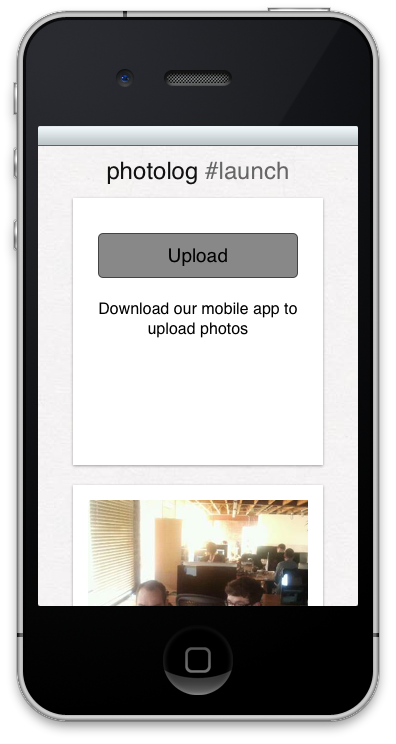
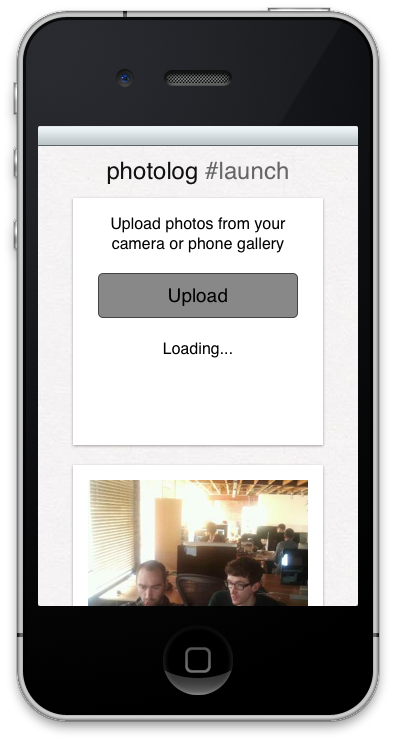
Layout and README tweaks

Changed region(s): [[0.1818, 0.5874, 0.8182, 0.8347], [0.2424, 0.2782, 0.7576, 0.4946]]

diff --git a/index.html b/index.html
@@ -19,9 +19,11 @@
 			<div id="header" class="photo">
 				<div style="width: 220px; height: 220px;">
 					<div class="button" id="upload-button" onclick="photolog.util.upload();">Upload</div>
-					<div class="text">Download our mobile app to upload photos</div>
-					<img class="mobile-logo" id="android-logo" src="img/android.jpg"/>
-					<img class="mobile-logo" id="ios-logo" src="img/ios.jpg"/>
+					<div id="app-download">
+						<div class="text">1Download 111 our mobile app to upload photos</div>
+						<img class="mobile-logo" id="android-logo" src="img/android.jpg"/>
+						<img class="mobile-logo" id="ios-logo" src="img/ios.jpg"/>
+					</div>
 					<div class="loading" id="loading">Loading...</div>
 				</div>
 			</div>
@@ -32,7 +34,7 @@
 					<td>
 						<div class="photo">
 							<div style="width: 220px; height: 220px;">
-								<div class="text">Download our mobile app to upload photos</div>
+								<div class="text">2Download 222 our mobile app to upload photos</div>
 								<div id="androidmarket" class="button">Android Market</div>
 								<div id="appstore" class="button">App Store</div>
 								<div class="button" onclick="photolog.router.navigate('stream/'+state.stream, true);">No thanks</div>
@@ -47,9 +49,9 @@
 				<img id="large-photo" src=""/>
 				<div id="start-stream-header">
 					<div style="width: 220px;">
-						<div class="text">Download our mobile app to upload photos</div>
-						<img class="mobile-logo" id="android-logo" src="img/android.jpg"/>
-						<img class="mobile-logo" id="ios-logo" src="img/ios.jpg"/>
+						<div class="text">3Download 333 our mobile app to upload photos</div>
+						<img class="mobile-logo" src="img/android.jpg"/>
+						<img class="mobile-logo" src="img/ios.jpg"/>
 					</div>
 				</div>			
 			</div>

diff --git a/photolog.js b/photolog.js
@@ -367,7 +367,7 @@ photolog.views.Photo = Backbone.View.extend({
 $(function () {
 	Backbone.history.start()
 	if (forge.is.web()) {
-		$('#upload-button').hide();
+		$('#upload-container').hide();
 		if (navigator.userAgent.indexOf('Android') != -1) {
 			$('#appstore').hide();
 			photolog.router.navigate('upsell', true);
@@ -376,8 +376,7 @@ $(function () {
 			photolog.router.navigate('upsell', true);
 		}
 	} else {
-		$('#android-logo').hide();
-		$('#ios-logo').hide();
+		$('#app-download-container').hide();
 	}
 	// Check for photos then poll every 10 seconds, bit hacky.
 	setInterval(function () {

diff --git a/style.css b/style.css
@@ -46,6 +46,12 @@ div.photo {
 	background-color: #fff;
 	margin: 10px;
 }
+#large-photo-container {
+	padding: 15px 5px;
+}
+#large-photo {
+	max-width: 95%;
+}
 div.button {
 	font-size: 1.2em;
 	padding: 10px;
@@ -75,6 +81,7 @@ div.loading {
 #scrollbox {
 	display: none;
 	position: relative;
+	width: 100%;
 }
 #start-stream-header {
 	display: none;
